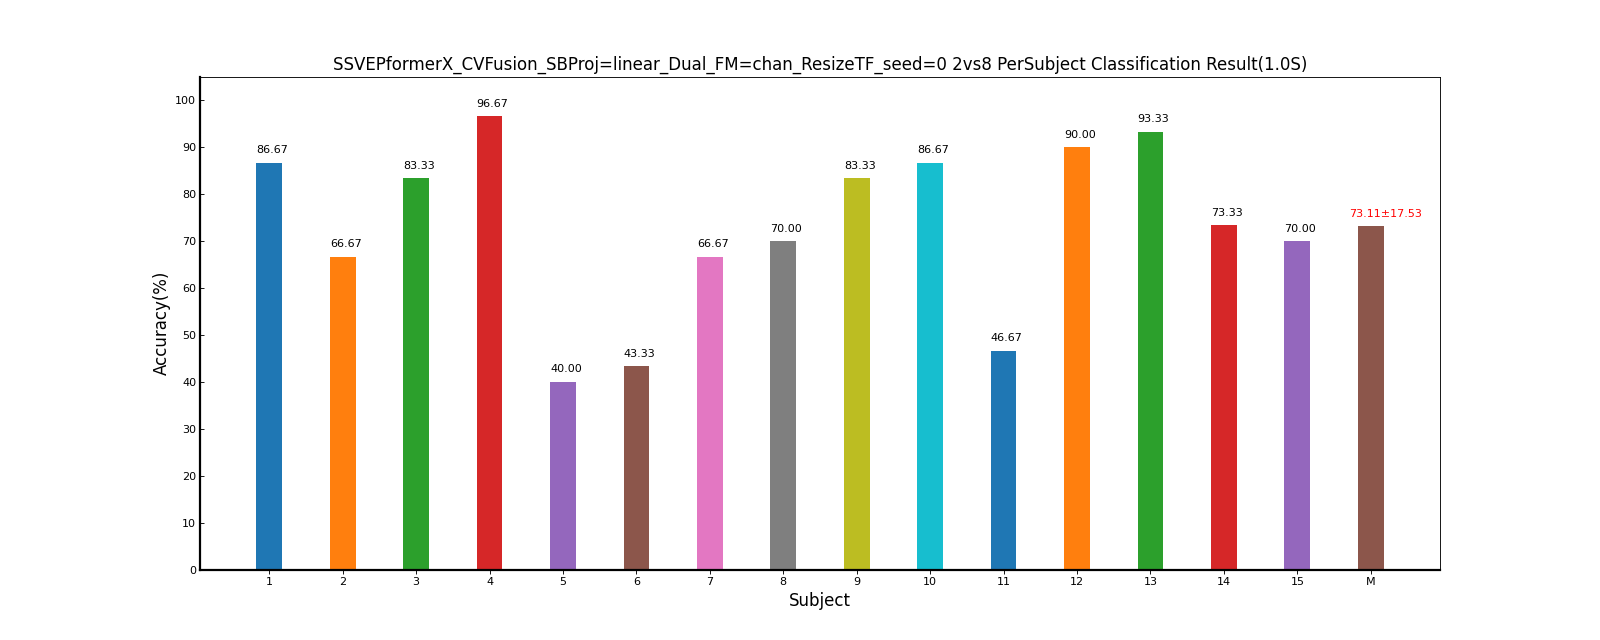
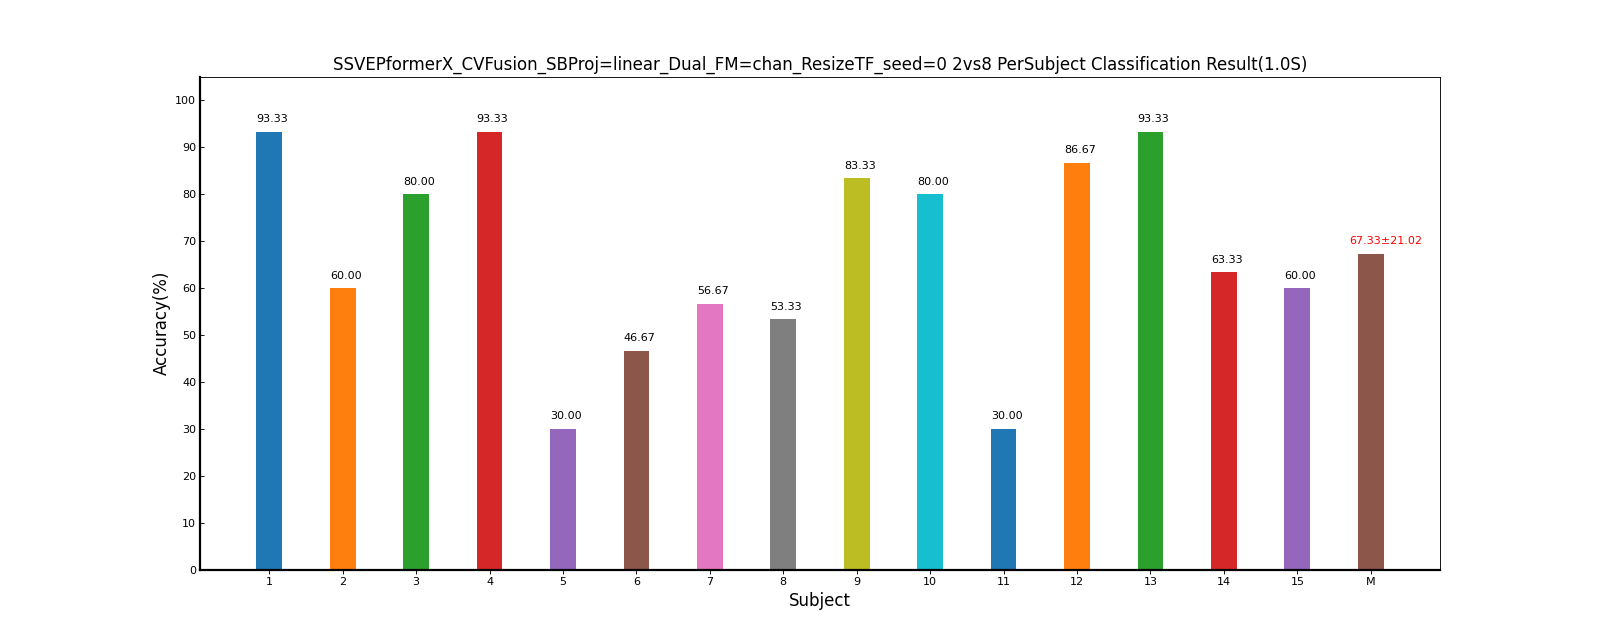
refactor(SSVEPformerX_CVFusion): 修改子带投影方式并优化双流融合逻辑
将子带投影方式从linear改为dwconv3以提升特征提取能力
移除注释代码并优化双流融合的输出处理逻辑

diff --git a/Model/SSVEPformerX_CVFusion.py b/Model/SSVEPformerX_CVFusion.py
@@ -510,10 +510,11 @@ class SSVEPformerX_CVFusion(nn.Module):
             x_t = xt                      # (B, 2C, F)
             x_f = xf                      # (B, 2C, F)
             x_t, x_f = self.crossview(x_t, x_f)   # 双流交互
-            '''x_dual = torch.cat([x_t, x_f], dim=1)
+            x_dual = torch.cat([x_t, x_f], dim=1)
             
             return self.head_dual(x_dual)       # 修改 head_dual 接口（见下）'''
-            return self.head_dual_2C(x_t, x_f)
+            '''return self.head_dual_2C(x_t, x_f)'''
+
         else:
             raise ValueError("Unknown fusion_mode=... choose 'len_cat' or 'chan_cat'.")
 
